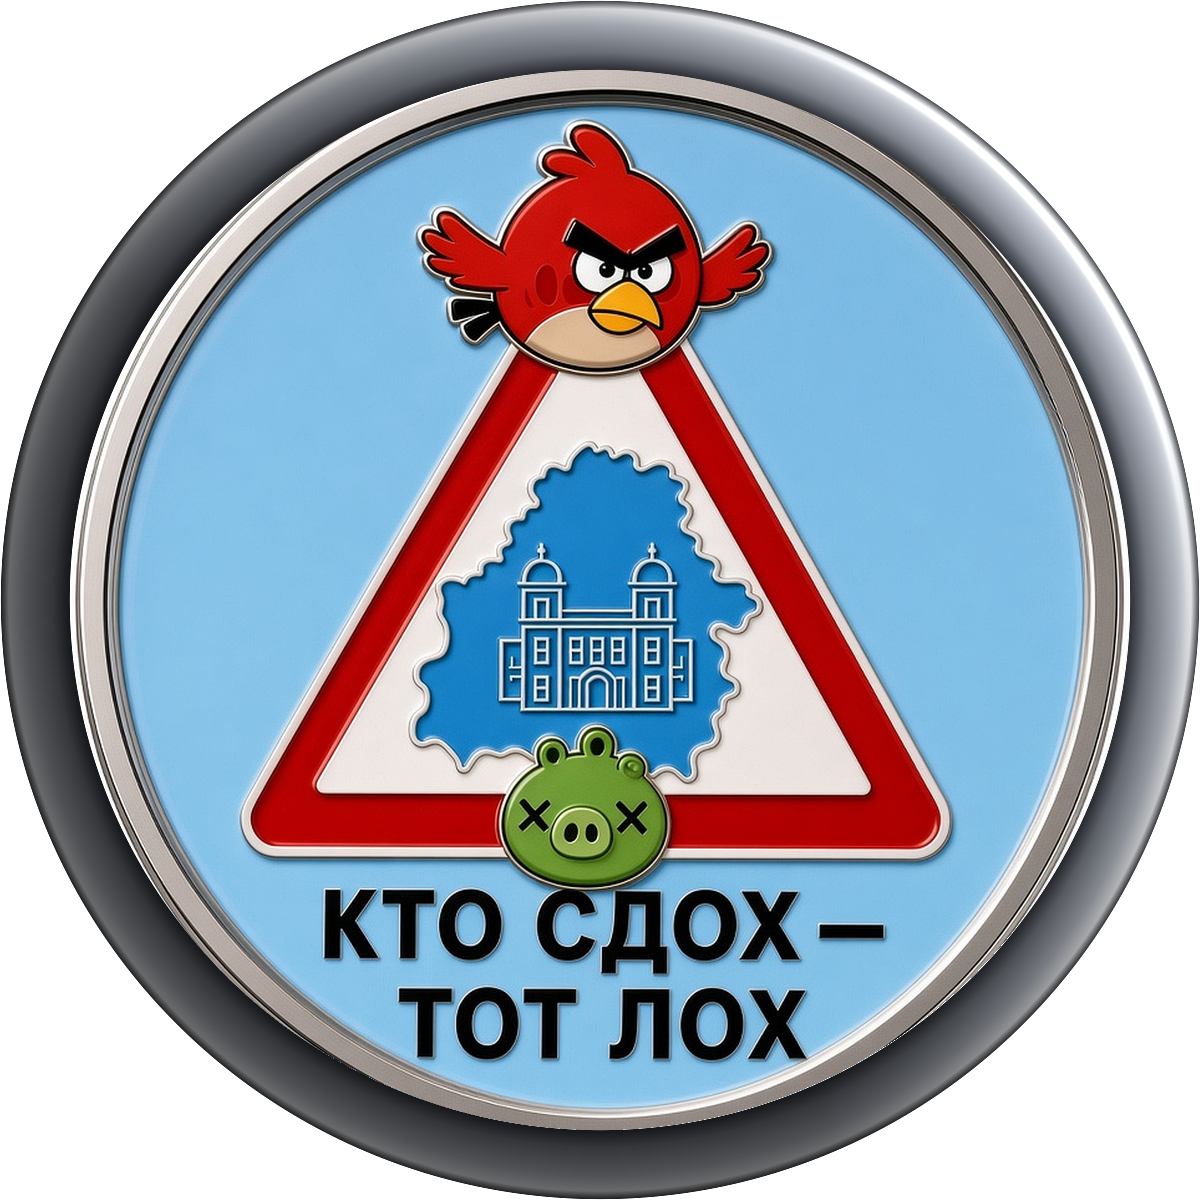
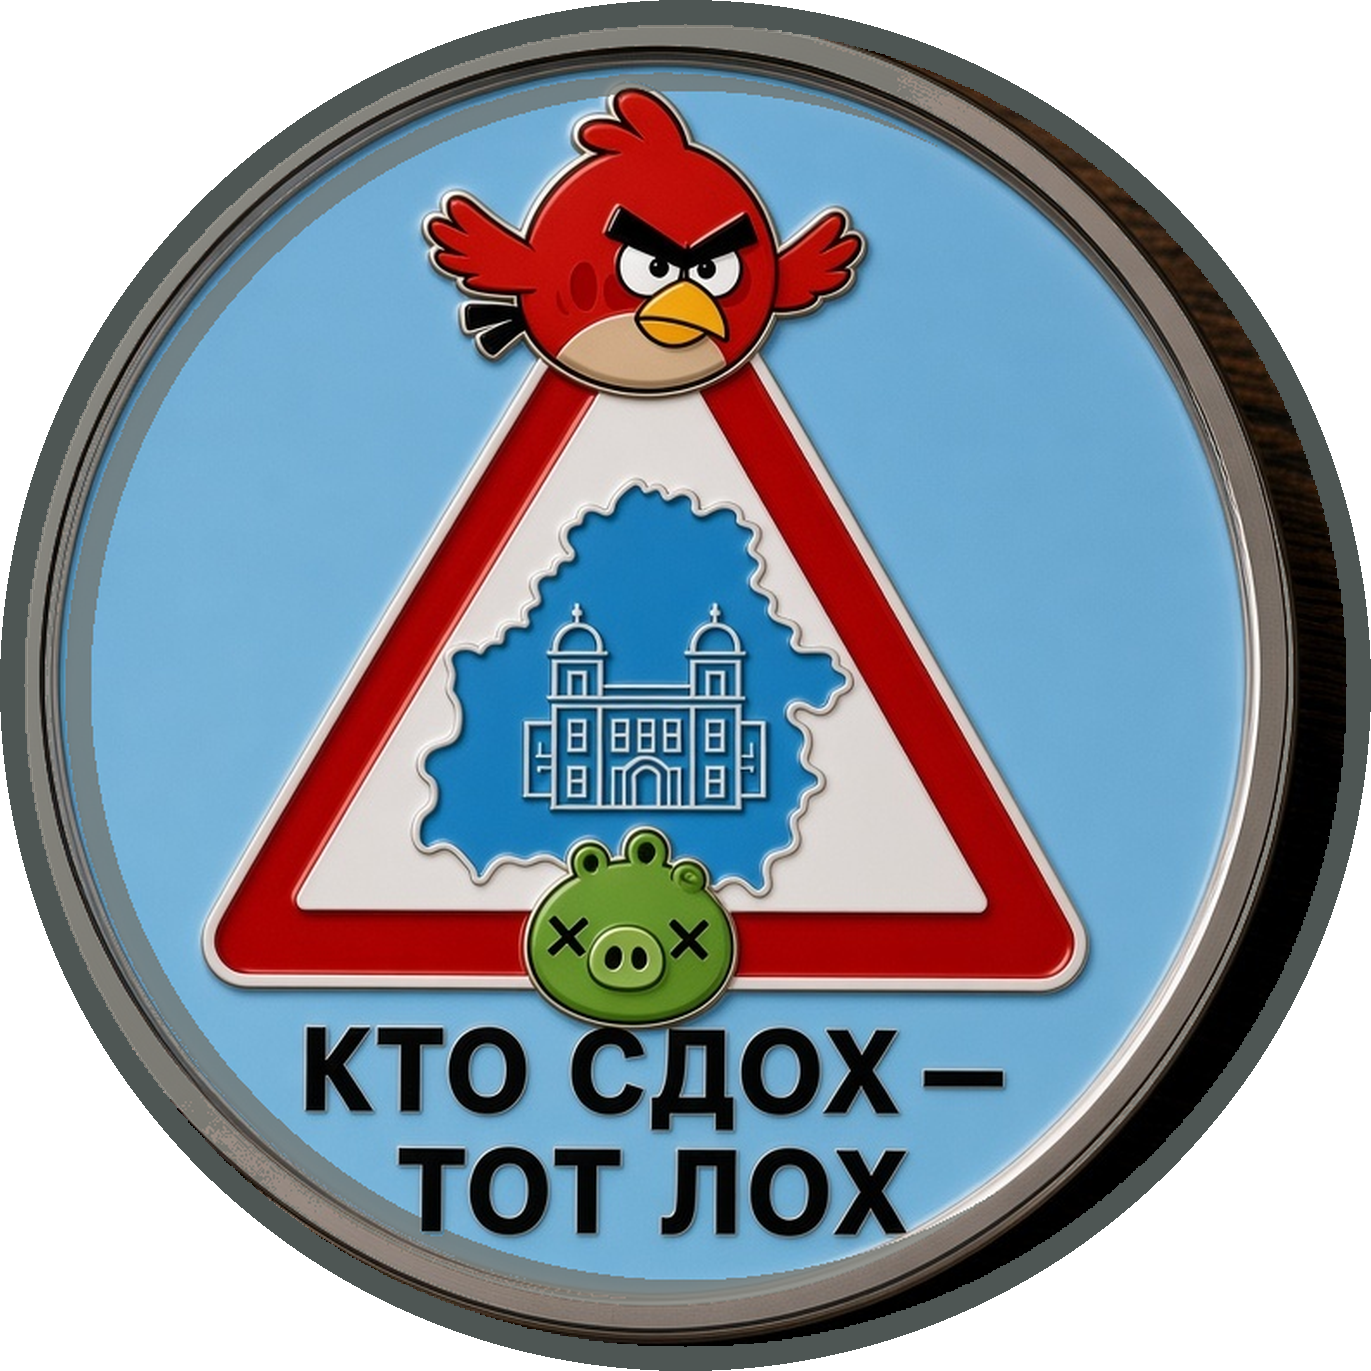
Restore medals 12–21 from print-56mm originals.
Drop the AI redraw that shrunk the art and added a second rim.
Use the original single-rim 1371×1371 plates with transparent outside.

diff --git a/work/File/badges_print_ready/README.md b/work/File/badges_print_ready/README.md
@@ -11,8 +11,9 @@ https://github.com/Uladislaus/Computer-systems-and-networks/archive/refs/heads/c
 
 ## Формат
 - PNG с альфой: снаружи круга прозрачность (как KOT)
-- кантик под макет (золото / серебро / тёмный металл)
-- портреты 05–08: серебро толщиной как исходное золото, картинка не сжата
+- один кантик под макет (золото / серебро / тёмный металл) — без второго обода
+- картинка не сжата: арт заполняет поле до кантика
+- 12–21: исходники `print-56mm` (1371×1371, 600 dpi, 56 мм + 1 мм bleed)
 
 ## Файлы
 01_stirochka_gotova.png
@@ -27,14 +28,14 @@ https://github.com/Uladislaus/Computer-systems-and-networks/archive/refs/heads/c
 10_spasibo_za_vnimanie.png
 11_hto_ya.png — мем «хто я?» (Чебурашка×Гена)
 
-12_posledniy_samuray.png
-13_pobeg_iz_shoushenka.png
-14_krestnyy_otets.png
-15_boytsovskiy_klub.png
-16_kto_sdokh_tot_lokh.png
-17_begushchiy_po_lezviyu.png
-18_vlastelin_povestki.png
-19_kolobok.png
-20_vlastelin_povestki_volat.png
-21_brilliantovaya_ruka.png
-
+### Медали 12–21 (оригинальный цвет кантика)
+12_posledniy_samuray.png — золото
+13_pobeg_iz_shoushenka.png — железо/серый
+14_krestnyy_otets.png — золото
+15_boytsovskiy_klub.png — серебро
+16_kto_sdokh_tot_lokh.png — серебро
+17_begushchiy_po_lezviyu.png — серебро
+18_vlastelin_povestki.png — золото
+19_kolobok.png — золото
+20_vlastelin_povestki_volat.png — золото
+21_brilliantovaya_ruka.png — золото
